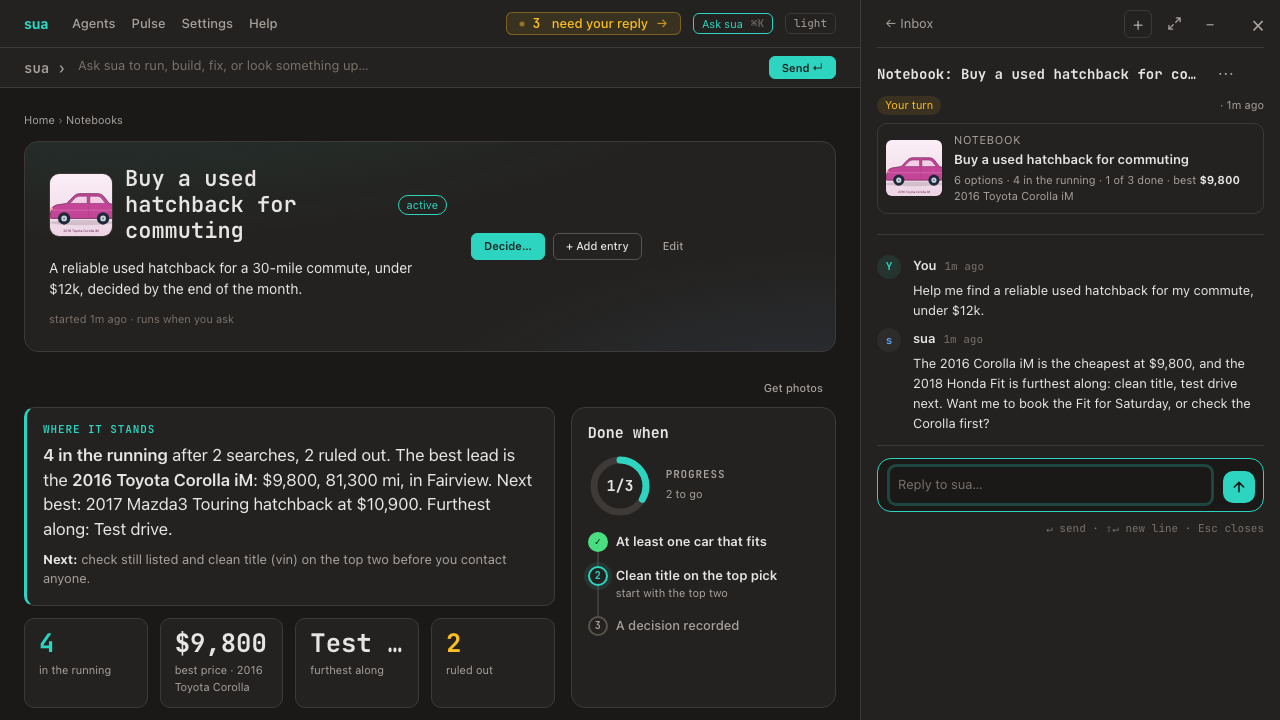
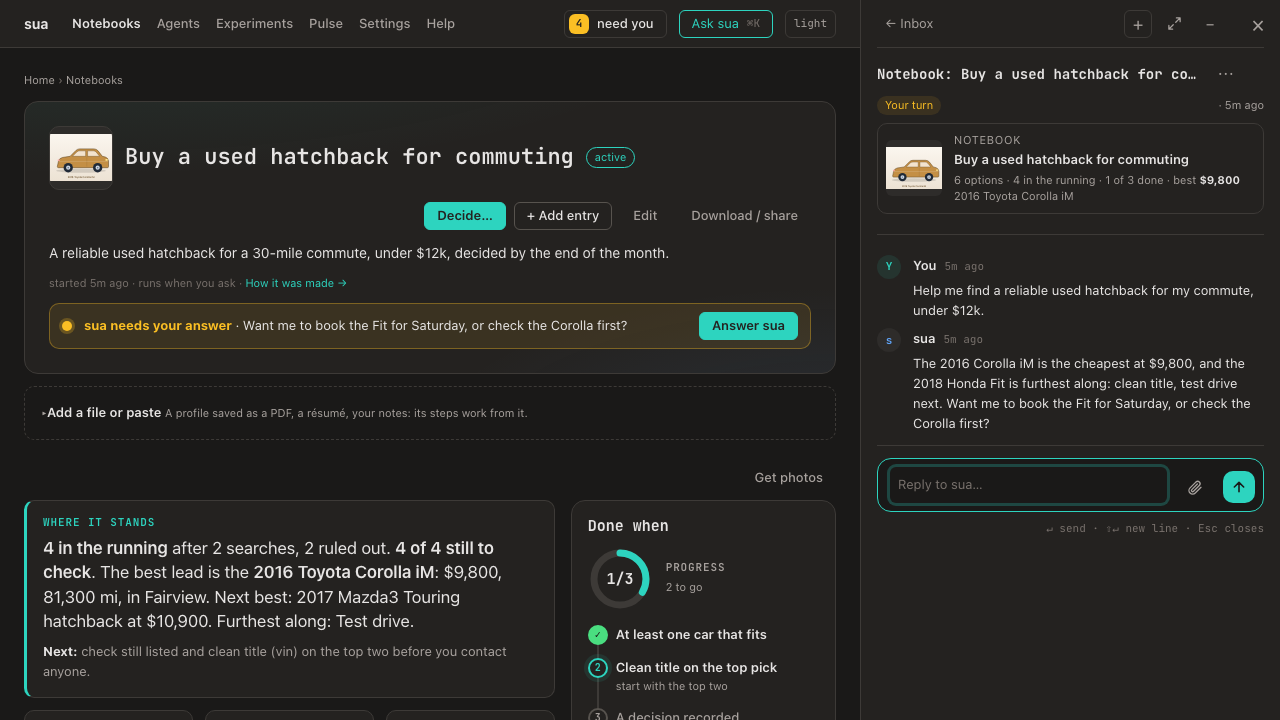
docs: retake the screenshots, and add ones for what has no picture
Every image in docs/images dated from early October. Twelve are retaken
from the fixture data (Home, a notebook, the conversation panel, New
notebook and its draft, Pulse, the agents list, Scheduled, an agent's
overview and config, a run, Appearance), and six are new: a meeting
briefing, Add a file or paste, Pulse's All agents, an experiment, New
experiment, and Settings' Files sua takes.

The fixture seed now also makes a meeting briefing (profile, what they
said, talking points, a profile as sua read it), two templates and an
experiment with results. All of it is made up. The instructions cover the
new pages, putting drawn illustrations back in place of example photos
from the web, and leaving the Paths card out of the settings picture.

The eight step and fix pictures need a notebook caught mid-step and are
not retaken here.

diff --git a/scripts/screenshots/README.md b/scripts/screenshots/README.md
@@ -15,22 +15,43 @@ node <repo>/packages/cli/dist/index.js dashboard start --port 3099 --provider lo
 ```
 
 Sign in at `http://127.0.0.1:3099/auth` with your dashboard token, use dark
-mode, dismiss the intro hints ("Got it"), and capture at **1280×720**:
+mode, dismiss the intro hints ("Got it"), close the conversation panel (it
+follows you from page to page), and capture the window at **1280×720**:
 
 | File | Page | Notes |
 | --- | --- | --- |
 | `home.png` | `/` | |
 | `notebook.png` | `/notebooks/buy-a-used-hatchback-for-commuting` | |
-| `drawer.png` | the same notebook | click **Continue the conversation**, then scroll to the top |
-| `new-notebook.png` | `/notebooks/new` | the suggestion pills are seeded |
+| `drawer.png` | the same notebook | click **Continue the conversation**, then scroll to the top; take it last (the panel stays open) |
+| `meeting-briefing.png` | `/notebooks/prepare-for-a-meeting-with-dana-reyes` | scrolled to the page body (Who they are) |
+| `notebook-add-file.png` | the same notebook | open **Add a file or paste** and type a name |
+| `new-notebook.png` | `/notebooks/new` | the suggestion pills and two templates are seeded |
 | `new-notebook-draft.png` | `/notebooks/new` | type a made-up sentence ("A quiet two-bedroom rental near downtown, under $2,400 a month, pets allowed, moving by December 1."), **Draft it**, scroll to the draft (needs a model) |
-| `pulse.png` | `/pulse` | six tiles are placed |
+| `pulse.png` | `/pulse` | Today's edition, from the seeded runs |
+| `pulse-agents.png` | `/pulse/agents` | six tiles are placed |
+| `experiment.png` | `/experiments/does-the-new-digest-find-different-headl` | results are seeded |
+| `experiment-new.png` | `/experiments/new` | |
 | `agents-list.png` | `/agents?tab=examples` | |
 | `scheduled.png` | `/scheduled` | |
 | `agent-overview.png` | `/agents/daily-summary` | |
 | `agent-config.png` | `/agents/daily-summary/config` | |
 | `run-detail.png` | a `two-step-digest` run (`/runs`) | |
 | `appearance.png` | `/settings/appearance` | two brands are seeded |
+| `settings-files.png` | `/settings/general` | only the **Files sua takes** card: the **Paths** card below it shows your home folder, so leave it out of the picture |
+
+**Pictures.** A notebook's page looks for example photos on the web the first
+time it is opened. Those are real photos, so put the drawn illustration back
+before capturing (wait until the page stops saying it is getting photos):
+
+```sh
+sqlite3 /tmp/sua-screens/data/runs.db "update notebook_photos set kind='illustration', source_url='illustration', content_type='image/svg+xml', bytes=cast('<svg xmlns=\"http://www.w3.org/2000/svg\"/>' as blob), tried_url=null where kind<>'illustration'"
+```
+
+**Not retaken by this seed.** The step and fix pictures (`notebook-steps*.png`,
+`notebook-step-move-on.png`, `notebook-source-step-facts.png`,
+`new-notebook-steps.png`, `agent-fix-calls-agent.png`,
+`agent-build-and-wire.png`) each need a notebook or a conversation caught
+mid-step; they date from October 2026.
 
 The seed runs only example agents that work offline and print nothing
 personal (`system-health` and `git-activity` are left out on purpose: they

diff --git a/docs/notebooks.md b/docs/notebooks.md
@@ -76,6 +76,8 @@ Some notebooks depend on something you referred to but didn't put in the request
 
 ### Adding a file or a paste it didn't ask for
 
+![Add a file or paste, open on a meeting briefing; above it, a profile as sua read it](images/notebook-add-file.png)
+
 Any notebook takes something of yours, asked for or not: the LinkedIn profile of the person you're meeting saved as a PDF, your résumé, a job description, your notes.
 
 - **Where:** **Add a file or paste**, a folded row under the notebook's header (inside the card at the top when the notebook already has something of yours), and under **Edit → What you gave it**.
@@ -94,6 +96,8 @@ Any notebook takes something of yours, asked for or not: the LinkedIn profile of
 - **When starting one.** The draft page has **Add a file or paste** above its Start button: what you add there is kept when the notebook starts and read before its first step.
 - **A template can ask for it.** A template saved from a notebook asks for what that notebook was given: the label, never the text. Something you added yourself becomes an ask "if you have it" (a box on the new notebook, nothing waits); something the notebook needed becomes "needed before it starts" (nothing runs until you add it or go on without it). `{subject}` in a label is filled in ("{subject}'s LinkedIn profile" asks for "Dana Reyes's LinkedIn profile"). Change the asks on **Make a template → Edit the words yourself → What it asks you for**, or tell sua ("ask for their LinkedIn profile each time"). A template asks for up to 4 things.
 - **Which kinds of file.** PDF, plain text (.txt), Markdown (.md) and Word (.docx), all on to start. **Settings → General → Files sua takes** turns any of them off; a kind that is off is refused by the pickers and by the server, with a line saying where to change it. With all of them off there is no file picker, only the paste box. A Word file's text is its paragraphs in order (headers, footers, comments and text inside pictures are not read); an older .doc has to be saved as .docx or PDF first. Pictures (.jpg, .png, .gif) and scanned PDFs can't be read yet.
+
+  ![Settings → General → Files sua takes](images/settings-files.png)
 - **Not for:** an archived notebook, or an experiment's copy of one (add to the notebook it was copied from).
 
 The notebook also keeps your request as you typed it, links included (the drafter's tidied sentence under "What it's for" may leave a link out). **Run it again** carries both the request and what you gave it to the new notebook.
@@ -172,7 +176,9 @@ You don't fill in a notebook by hand. A new notebook opens with **Tell sua what 
 
 ## A notebook's page
 
-![A notebook's page: where it stands, done-when, the price map and the funnel](images/notebook.png)
+![A notebook's page: where it stands and what is done](images/notebook.png)
+
+![A meeting briefing's page: who they are, what is known with its sources, and the talking points](images/meeting-briefing.png)
 
 ![The same notebook with its conversation open in the sua panel](images/drawer.png)
 

diff --git a/docs/experiments.md b/docs/experiments.md
@@ -2,6 +2,8 @@
 
 An experiment answers a question about an agent, or about a whole notebook: **what changes what it produces, and by how much?** It gives one agent the same ask under different versions of it, runs the whole agent a few times under each, reads what each run produced, and counts how much the versions' results have in common. With a notebook, each run is a fresh copy of the notebook taken through its steps ([Running a whole notebook](#running-a-whole-notebook)). The numbers are counted from the runs; no model writes them. ([ADR-0078](adr/0078-experiments.md))
 
+![An experiment's page: the finding, then how much the versions' results had in common against two runs of the same version](images/experiment.png)
+
 "Does the new version of my job search agent find different jobs?" "Does the model change what the digest picks?" "Does the build matter more than the preferences I give it?" Each is an experiment.
 
 ## What is held the same, what changes, what is compared
@@ -30,6 +32,8 @@ Every combination of versions is run; the first version of each change is the **
    Then what to call it and its versions, A and B (up to four). **Change something else too** adds another, up to three. You can go on with none: the experiment then runs the agent as it is and shows how steady it is.
 5. **Which is better.** Optional. See [Scoring](#scoring).
 6. **Check it.** The whole setup written out, each part with an Edit back to its step, and what it comes to: "2 × 2 = 4 versions × 2 runs = Job finder runs 8 times". The name is here (sua uses your question if you leave it empty), with how many times each version runs, and a box to make a notebook that shows the results.
+
+![New experiment: one question a step](images/experiment-new.png)
 
 Next checks only the step you're on, and Back never loses what you typed. A setup that is refused (no agent, an input the agent needs left empty, too many runs) comes back on the step the problem belongs to. Without scripts the six steps show one after another on one page.
 

diff --git a/docs/dashboard.md b/docs/dashboard.md
@@ -49,7 +49,7 @@ On Home the same inbox fills the page instead (below), so it's one inbox at two 
 
 ## `/` — Home
 
-![Home: how things stand, your notebooks, and Today](images/home.png)
+![Home: what needs you, today's reads and your recent notebooks](images/home.png)
 
 Home is what needs you and what to do next, on one page, in two columns (one on a narrow screen). **Adjust Home** can move any of its parts within its column or hide it ("hide Next up", "put Ask sua first"); a hidden part is named at the foot with **Show**. See [Home's page parts](surfaces.md#homes-page-parts).
 
@@ -266,7 +266,9 @@ Resolved variables panel shows what values the run actually saw (inputs after de
 
 Pulse has two views, as tabs under its header. **Today's edition** (`/pulse`) is a generated front page of what your scheduled agents produced in the last day, each drawn as its own result; see [boards](boards.md#pulse). With nothing reported in the last day it isn't shown and Pulse opens on the board. **All agents** (`/pulse/agents`) is the board described below.
 
-![Pulse with six placed tiles](images/pulse.png)
+![Pulse: Today's edition](images/pulse.png)
+
+![Pulse → All agents: the board of tiles](images/pulse-agents.png)
 
 Pulse is a [board](boards.md), drawn as one A2UI canvas: arrange it with **✎ Arrange** (sections, grids, tabs, rows, cards) or **✨ Suggest a layout**, or build a new board from a description with **＋ New board**; agents you haven't placed are under **Everything else**, grouped as described next.
 

diff --git a/README.md b/README.md
@@ -178,13 +178,17 @@ sua schedule list                       # show scheduled agents
 
 Start with `sua dashboard start`. Dark mode by default, JetBrains Mono, warm stone neutrals. (These screenshots come from made-up fixture data; see [scripts/screenshots](scripts/screenshots/README.md).)
 
-![A notebook: where it stands, done-when, and the price map](docs/images/notebook.png)
+![A notebook: where it stands and what is done](docs/images/notebook.png)
 
 ![Start a notebook: one sentence becomes a draft to check](docs/images/new-notebook-draft.png)
 
 ![A notebook with its conversation open in the sua panel](docs/images/drawer.png)
 
-![Pulse: your board of agent tiles](docs/images/pulse.png)
+![Pulse: Today's edition, a front page of what your scheduled agents produced](docs/images/pulse.png)
+
+![A meeting briefing: who they are, what is known with its sources, and the talking points](docs/images/meeting-briefing.png)
+
+![An experiment: the finding, and how much two versions' results had in common](docs/images/experiment.png)
 
 ![Agents list](docs/images/agents-list.png)
 
